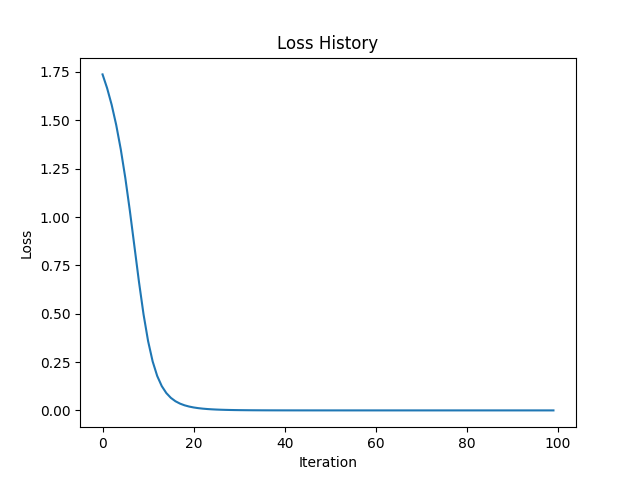
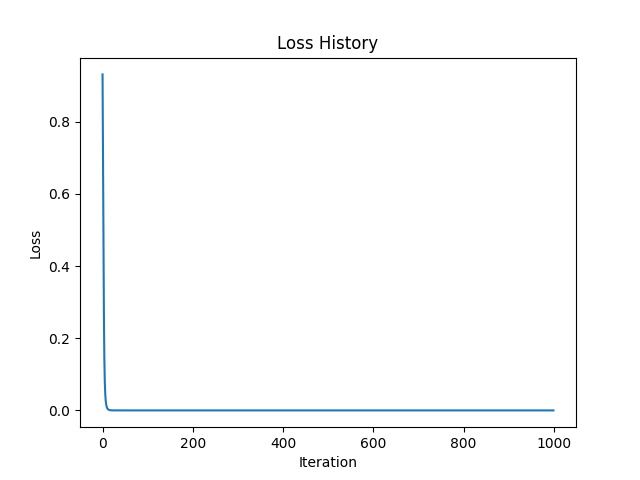
Final version

diff --git a/1/main.py b/1/main.py
@@ -1,4 +1,4 @@
-from math import tanh
+from math import tanh, exp, log
 import random
 
 class Value:
@@ -7,60 +7,76 @@ class Value:
         self.parents = parents
         self.op = op
         self.grad = grad
+        self._backward = lambda:None
 
     def __repr__(self):
         return f"(value: {self.value},  op: {self.op}, grad: {self.grad}, parents: {self.parents})"
 
     def __add__(self, other):
-        return Value(self.value + other.value, (self, other), op='+')
+        out = Value(self.value + other.value, (self, other), op='+')
+        def backward():
+            self.grad += out.grad
+            other.grad += out.grad
+        out._backward = backward
+        return out
 
     def __sub__(self, other):
-        return Value(self.value - other.value, (self, other), op='-')
+        out = Value(self.value - other.value, (self, other), op='-')
+        def backward():
+            self.grad += out.grad
+            other.grad -= out.grad
+        out._backward = backward
+        return out
 
     def __mul__(self, other):
-        return Value(self.value * other.value, (self, other), op='*')
+        out = Value(self.value * other.value, (self, other), op='*')
+        def backward():
+            self.grad += out.grad * other.value
+            other.grad += out.grad * self.value
+        out._backward = backward
+        return out
 
     def __pow__(self, other):
-        return Value(self.value ** other.value, (self, other), op='**')
-    
+        out = Value(self.value ** other.value, (self, other), op='**')
+        def backward():
+            self.grad += out.grad * (other.value * self.value ** (other.value - 1))
+        out._backward = backward
+        return out 
+
     def tanh(self):
-        return Value(tanh(self.value), (self,), op='tanh') 
+        out = Value(tanh(self.value), (self,), op='tanh')
+        def backward():
+            self.grad += out.grad * (1 - tanh(self.value) ** 2)
+        out._backward = backward
+        return out
 
     def relu(self):
-        return Value(max(0, self.value), (self,), op='relu')
+        out_val = log(1 + exp(self.value))
+        out = Value(out_val, (self,), op='softplus')
+        def backward():
+            self.grad += out.grad * (1 / (1 + exp(-self.value)))
+        out._backward = backward
+        return out
 
     def repr(self):
         return f"Value={self.value}"
 
-    def backward(self, init=False):
-        if init:
-            self.grad = 1.0
+    def backward(self):
 
-        if self.op == "+":
-            for parent in self.parents:
-                parent.grad = self.grad
-            for parent in self.parents:
-                parent.backward()
-        elif self.op == "-":
-            self.parents[0].grad = self.grad
-            self.parents[1].grad = self.grad
-            for parent in self.parents:
-                parent.backward()
-        elif self.op == "*":
-            self.parents[0].grad = self.grad * self.parents[1].value
-            self.parents[1].grad = self.grad * self.parents[0].value
-            for parent in self.parents:
-                parent.backward()
-        elif self.op == "**":
-            self.parents[0].grad = self.grad * (self.parents[1].value * self.parents[0].value ** (self.parents[1].value - 1)) 
-            self.parents[0].backward()
-        elif self.op == 'tanh':
-            self.parents[0].grad = self.grad * (1 - tanh(self.parents[0].value) ** 2)
-            self.parents[0].backward()
-        elif self.op == 'relu':
-            if self.parents[0].value > 0:
-                self.parents[0].grad = self.grad
-            self.parents[0].backward()
+        topo = []
+        visited = set()
+        def build_topo(v):
+            if v not in visited:
+                visited.add(v)
+                for parent in v.parents:
+                    build_topo(parent)
+                topo.append(v)
+        build_topo(self)
+
+        # go one variable at a time and apply the chain rule to get its gradient
+        self.grad = 1
+        for v in reversed(topo):
+            v._backward()
 
     def reset_grad(self):
         self.grad = 0.0
@@ -84,6 +100,8 @@ class Neuron:
             return z.relu()
         else:
             return z.tanh()
+
+
 class Layer:
     def __init__(self, nin, nout, relu=True):
         self.neurons = [Neuron(nin, relu) for _ in range(nout)]
@@ -96,7 +114,7 @@ class MLP:
         self.layers = []
         self.layers.append(Layer(nin, nhin))
         for _ in range(nhidden):
-            self.layers.append(Layer(nhin, nhin))
+            self.layers.append(Layer(nhin, nhin, relu=False))
         self.layers.append(Layer(nhin, nout, relu=False))
         
     def __call__(self, x):
@@ -113,26 +131,24 @@ class MLP:
 
 input_data = [Value(1.0), Value(2.0), Value(3.0)]
 expected_output = [Value(0.5)]
-mlp = MLP(nin=3, nout=1, nhidden=2, nhin=4)
+mlp = MLP(nin=3, nout=1, nhidden=5, nhin=5)
 loss_history = []
 
-for i in range(100):
+for i in range(1000):
     mlp.reset_grads()
     output = mlp(input_data)
     loss = Value(0.0)
     for o, e in zip(output, expected_output):
         loss = loss + (o - e) ** Value(2.0)
-    loss.backward(init=True)
+    loss.backward()
     for layer in mlp.layers:
         for neuron in layer.neurons:
             for j in range(len(neuron.w)):
                 neuron.w[j].value -= 0.01 * neuron.w[j].grad
             neuron.b.value -= 0.01 * neuron.b.grad
     # visualize the parameters
-    print(f"Parameters after iteration {i+1}:")
-    print(f"Iteration {i+1}:")
-    print("Output:", [o.value for o in output])
-    print("Loss:", loss.value)
+    if i % 100 == 0:
+        print(f"Iteration {i}, Loss: {loss.value}")
     loss_history.append(loss.value)
 
 # Plotting the losss history with matplotlib
